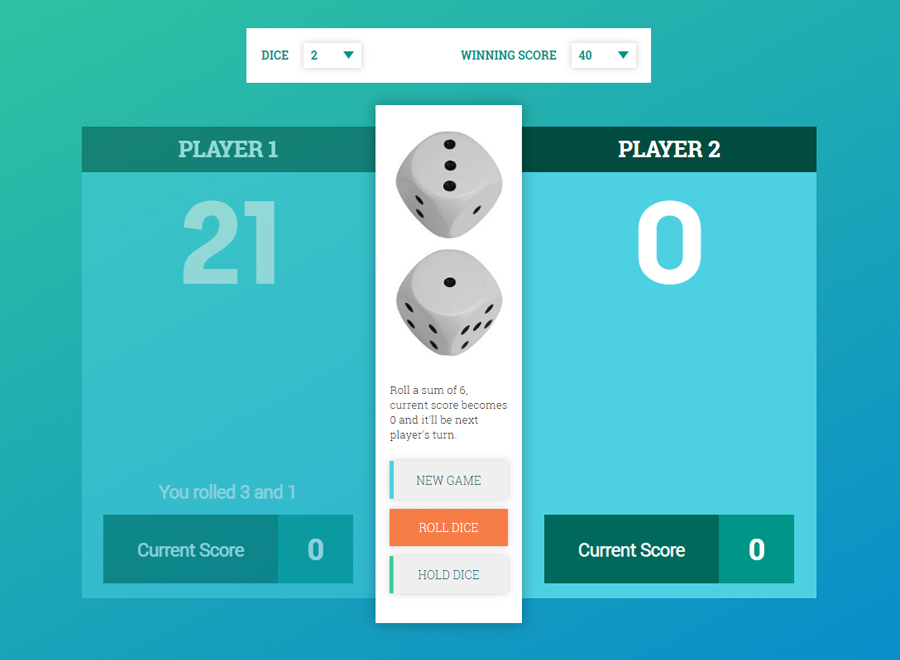
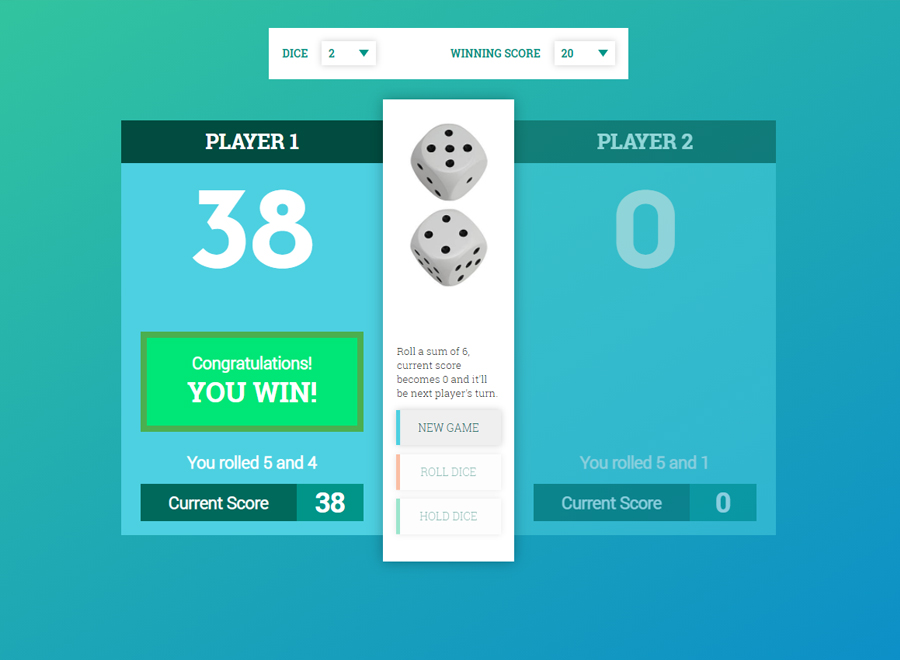
Modified layout.

diff --git a/css/style.css b/css/style.css
@@ -177,17 +177,15 @@ body {
 .boxed-element-1 {
   background-color: #00E676;
   border: 1rem solid #4BAF50;
-  padding: 3rem 0;
+  padding: 2rem 0;
 }
 
 .boxed-element-2 {
   background-color: #00695C;
-  padding: 2rem 0;
 }
 
 .boxed-element-2a {
   background-color: #009588;
-  padding: 2rem 0;
 }
 
 .btn__btn-primary {
@@ -225,10 +223,10 @@ body {
 .dice-game__wrapper {
   display: flex;
   justify-content: center;
-  margin-top: 8rem;
+  margin-top: 4rem;
 }
 .dice-game__container {
-  width: 100rem;
+  width: 95rem;
   display: flex;
   justify-content: center;
   flex-direction: column;
@@ -262,12 +260,12 @@ body {
 }
 .dice-game__game-score-board {
   background-color: #4DD0E1;
-  height: 58rem;
+  height: 54rem;
   position: relative;
 }
 .dice-game__message-block {
   position: absolute;
-  bottom: 20rem;
+  bottom: 15rem;
   width: 100%;
   display: flex;
   justify-content: center;
@@ -278,7 +276,7 @@ body {
 }
 .dice-game__rolled {
   position: absolute;
-  bottom: 13rem;
+  bottom: 9rem;
   display: flex;
   justify-content: center;
   width: 100%;
@@ -307,7 +305,7 @@ body {
 .dice-game__game-controls-block {
   width: 20%;
   background-color: #fff;
-  height: 70.5rem;
+  height: 67rem;
   position: absolute;
   top: -3rem;
   box-shadow: 0 0 2rem rgba(0, 0, 0, 0.3);
@@ -320,7 +318,7 @@ body {
   margin-top: 3rem;
 }
 .dice-game__dice-item {
-  width: 80%;
+  width: 65%;
   transition: all 0.4s;
 }
 .dice-game__rule-info {

diff --git a/sass/_layout.scss b/sass/_layout.scss
@@ -2,10 +2,10 @@
     &__wrapper {
         display: flex;
         justify-content: center;
-        margin-top: 8rem;
+        margin-top: 4rem;
     }
     &__container {
-        width: 100rem;
+        width: 95rem;
         display: flex;
         justify-content: center;
         flex-direction: column;
@@ -39,16 +39,12 @@
     }    
     &__game-score-board {        
         background-color: #4DD0E1;
-        // display: flex;
-        // flex-direction: column;
-        // justify-content: center;
-        // align-items: center;
-        height: 58rem;
+        height: 54rem;
         position: relative;
     }
     &__message-block {
         position: absolute;
-        bottom: 20rem;
+        bottom: 15rem;
         width: 100%;
         display: flex;
         justify-content: center;
@@ -59,7 +55,7 @@
     }
     &__rolled {
         position: absolute;
-        bottom: 13rem;
+        bottom: 9rem;
         display: flex;
         justify-content: center;
         width: 100%;
@@ -88,7 +84,7 @@
     &__game-controls-block {
         width: 20%;
         background-color: #fff;
-        height: 70.5rem;
+        height: 67rem;
         position: absolute;
         top: -3rem;
         box-shadow: $box-shadow-1;
@@ -101,7 +97,7 @@
         margin-top: 3rem;
     }
     &__dice-item {
-        width: 80%;
+        width: 65%;
         transition: all .4s;
     }
     &__rule-info { 

diff --git a/sass/_components.scss b/sass/_components.scss
@@ -110,15 +110,13 @@
 .boxed-element-1 {
     background-color: $color-2a;
     border: 1rem solid $color-2b;
-    padding: 3rem 0;    
+    padding: 2rem 0;    
 }
 .boxed-element-2 {
     background-color: $color-1b;
-    padding: 2rem 0;
 }
 .boxed-element-2a {
     background-color: $color-1c;
-    padding: 2rem 0;
 }
 
 // BUTTONS
